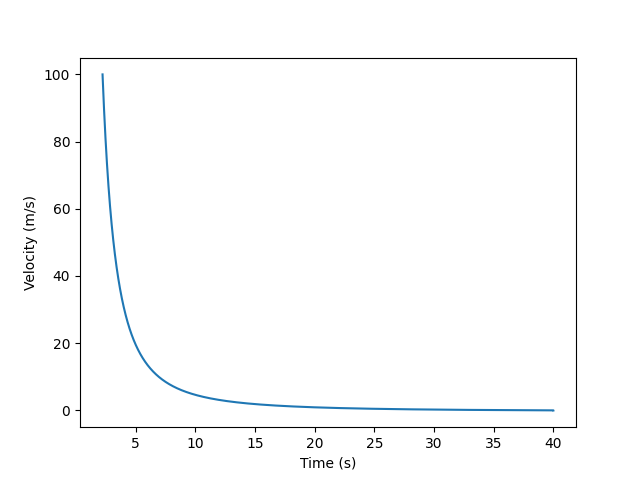
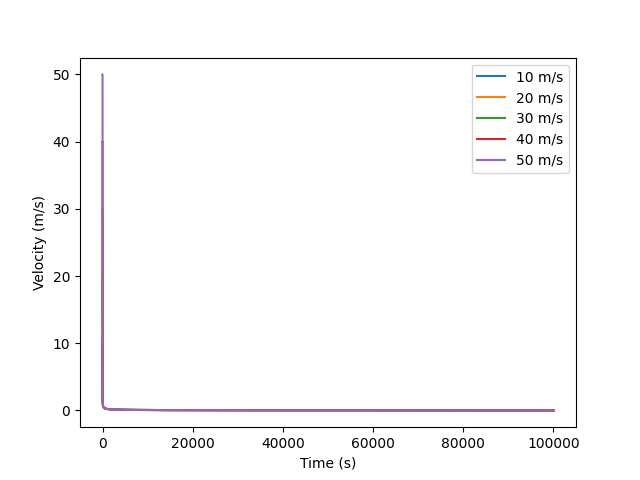
2-13 Fixes

diff --git a/Chapter 2/2-13.py b/Chapter 2/2-13.py
@@ -1,40 +1,52 @@
 import matplotlib.pyplot as plt
 import numpy as np
-import math
 import os
+import math
 
 Directory = os.path.dirname(__file__)
 
-ConstantA = 0.0005
-ConstantK = 0.001
-InitialVelocity = 40
+ConstantA = 0.05
+ConstantK = 0.01
+InitialVelocity = 10
+Iterations = 5
 
-Steps = 10000
+Steps = 10000000
 dT = 0.01
 Time = np.zeros((Steps))
-Force = np.zeros((Steps))
-Acceleration = np.zeros((Steps))
-Velocity = np.zeros((Steps))
-Position = np.zeros((Steps))
+Force = np.zeros((Iterations, Steps))
+Acceleration = np.zeros((Iterations, Steps))
+Velocity = np.zeros((Iterations, Steps))
+Position = np.zeros((Iterations, Steps))
 Mass = 2
-Velocity[0] = InitialVelocity
 
-for i in range(1,Steps):
-    Time[i] = i * dT
-    Force[i] = -Mass * ConstantK * (Velocity[i-1] * Velocity[i-1] * Velocity[i-1] + ConstantA * ConstantA * Velocity[i-1])
-    Acceleration[i] = Force[i] / Mass
-    Velocity[i] = Velocity[i-1] + Acceleration[i-1] * dT
-    Position[i] = Position[i-1] + Velocity[i-1] * dT
+for i in range(Iterations):
+    Velocity[i][0] = InitialVelocity + (10 * i)
 
-plt.plot(Velocity, Time)
+for j in range(Iterations):
+    for i in range(1, Steps):
+        Time[i] = i * dT
+        Force[j][i] = -Mass * ConstantK * ((Velocity[j][i-1]*Velocity[j][i-1]*Velocity[j][i-1]) + ConstantA * ConstantA * Velocity[j][i-1])
+        Acceleration[j][i] = Force[j][i] / Mass
+        Velocity[j][i] = Velocity[j][i-1] + Acceleration[j][i-1] * dT
+        Position[j][i] = Position[j][i-1] + Velocity[j][i-1] * dT
+    print('Finished', str(j+1))
+
+for j in range(Iterations):
+    plt.plot(Time, Velocity[j], label=f'{InitialVelocity + 10 * j} m/s')
+
 plt.ylabel("Velocity (m/s)")
 plt.xlabel("Time (s)")
-plt.savefig(Directory + '/2-13_Velocity_v_Time')
+plt.legend()
+plt.savefig(os.path.join(Directory, '2-13_Velocity_v_Time.png'))
 plt.show()
-plt.plot(Time, Position)
+
+for j in range(Iterations):
+    plt.plot(Time, Position[j], label=f'{InitialVelocity + 10 * j} m/s')
+
+plt.axhline(y = (math.pi / (2 * ConstantK * ConstantA)), color = 'r', linestyle = '-') 
 plt.ylabel("Position (m)")
 plt.xlabel("Time (s)")
-plt.savefig(Directory + '/2-13_Position_v_Time')
+plt.legend()
+plt.savefig(os.path.join(Directory, '2-13_Position_v_Time.png'))
 plt.show()
-# m, k, a constants
-# RetardingForce = m * k * (v * v * v + a * a * v)
+print('Done')
